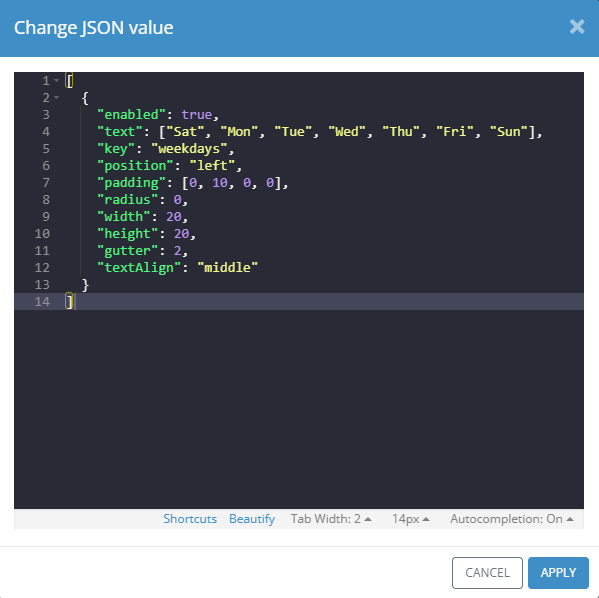
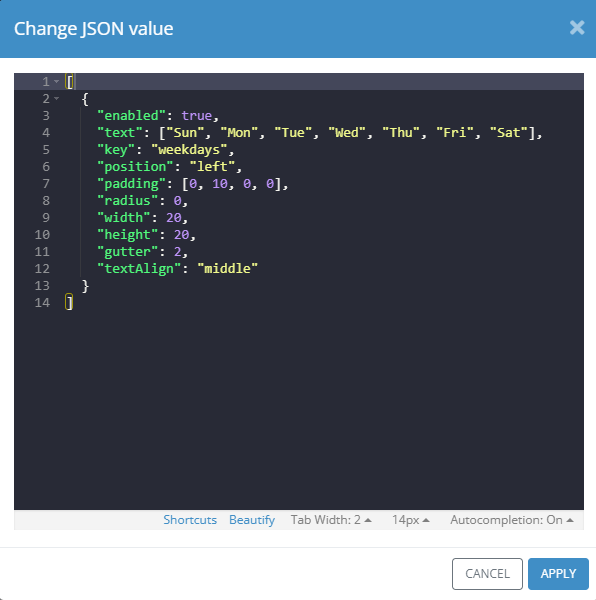
fixed text for calendar label example and default value, added result preview image of calendar label

diff --git a/components/bl-calendar-heatmap/README.md b/components/bl-calendar-heatmap/README.md
@@ -192,6 +192,8 @@ For example, we want to add the label for the weekday. We need to set in array c
 
 ![](./example-images/set-calendar-label.png)
 
+![](./example-images/calendar-label-preview.png)
+
 <details>
 <summary>Try yourself</summary>
 
@@ -199,7 +201,7 @@ For example, we want to add the label for the weekday. We need to set in array c
 [
   {
     "enabled": true,
-    "text": ["Sat", "Mon", "Tue", "Wed", "Thu", "Fri", "Sun"],
+    "text": ["Sun", "Mon", "Tue", "Wed", "Thu", "Fri", "Sat"],
     "key": "weekdays",
     "position": "left",
     "padding": [0, 10, 0, 0],
